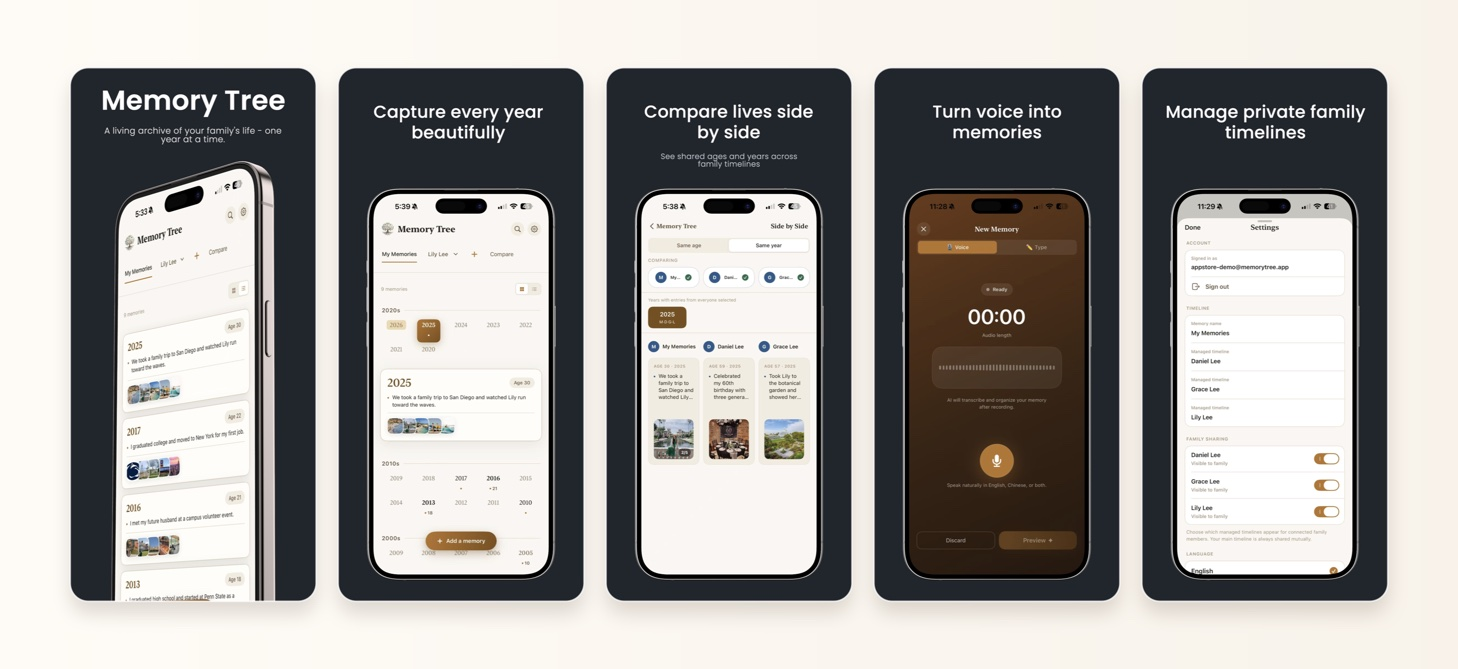
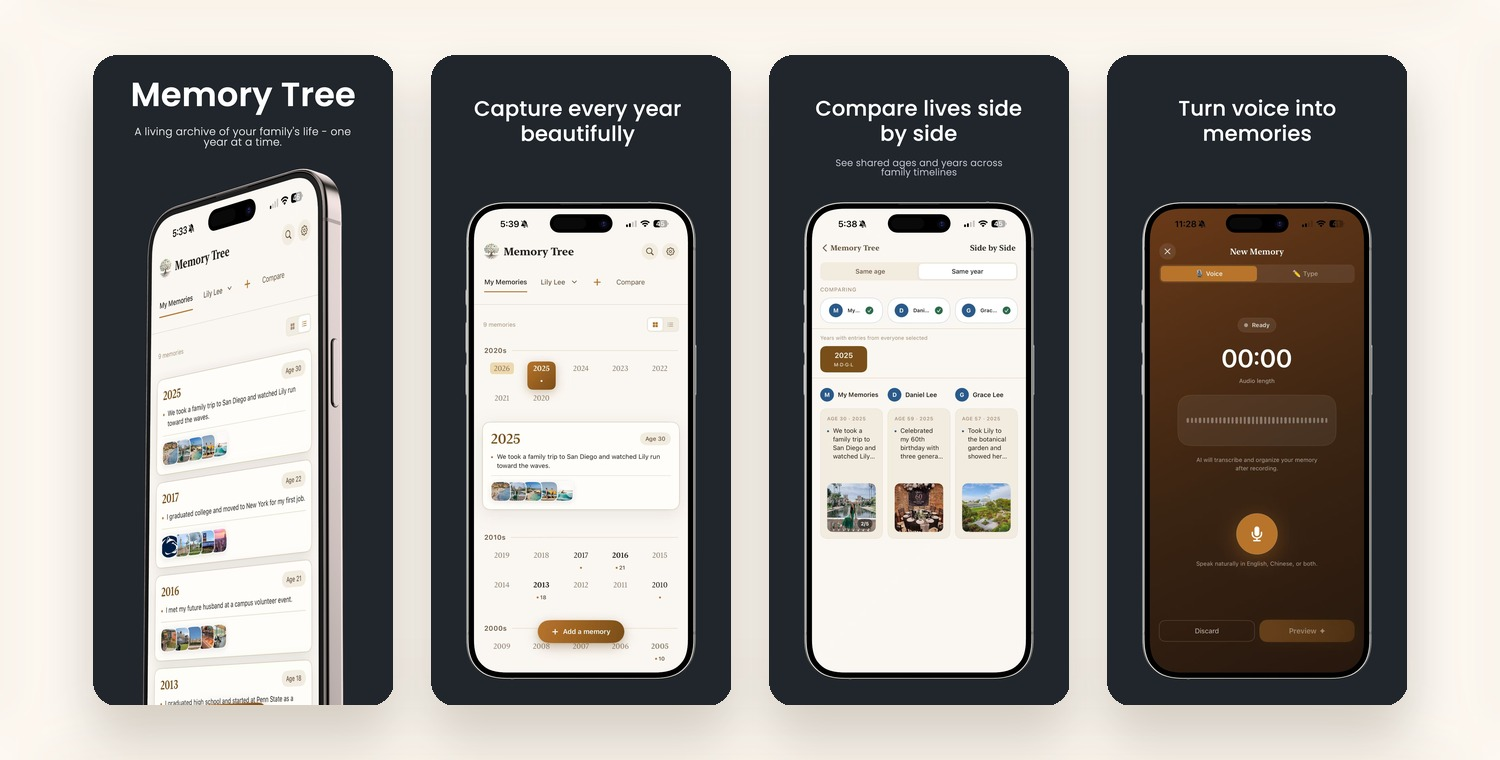
Enlarge homepage app preview

diff --git a/styles.css b/styles.css
@@ -97,9 +97,9 @@ a {
 
 .hero {
   display: grid;
-  width: min(1260px, calc(100% - 40px));
-  grid-template-columns: minmax(0, 0.78fr) minmax(420px, 1.22fr);
-  gap: 50px;
+  width: min(1340px, calc(100% - 40px));
+  grid-template-columns: minmax(0, 0.7fr) minmax(520px, 1.3fr);
+  gap: 42px;
   align-items: center;
   padding: 74px 0 62px;
 }
@@ -170,6 +170,8 @@ h3 {
 }
 
 .hero-art {
+  width: min(100%, 780px);
+  justify-self: end;
   border-radius: 22px;
   background: transparent;
   filter: drop-shadow(0 28px 54px rgba(87, 66, 42, 0.13));

diff --git a/index.html b/index.html
@@ -34,7 +34,7 @@
         </div>
       </div>
       <div class="hero-art" aria-label="Memory Tree app preview">
-        <img src="/assets/contact-sheet-demo.jpg?v=20260521c" alt="Memory Tree app screens showing timelines, voice memories, comparison, and settings.">
+        <img src="/assets/contact-sheet-demo.jpg?v=20260521d" alt="Memory Tree app screens showing timelines, comparison, and voice memories.">
       </div>
     </section>
 
